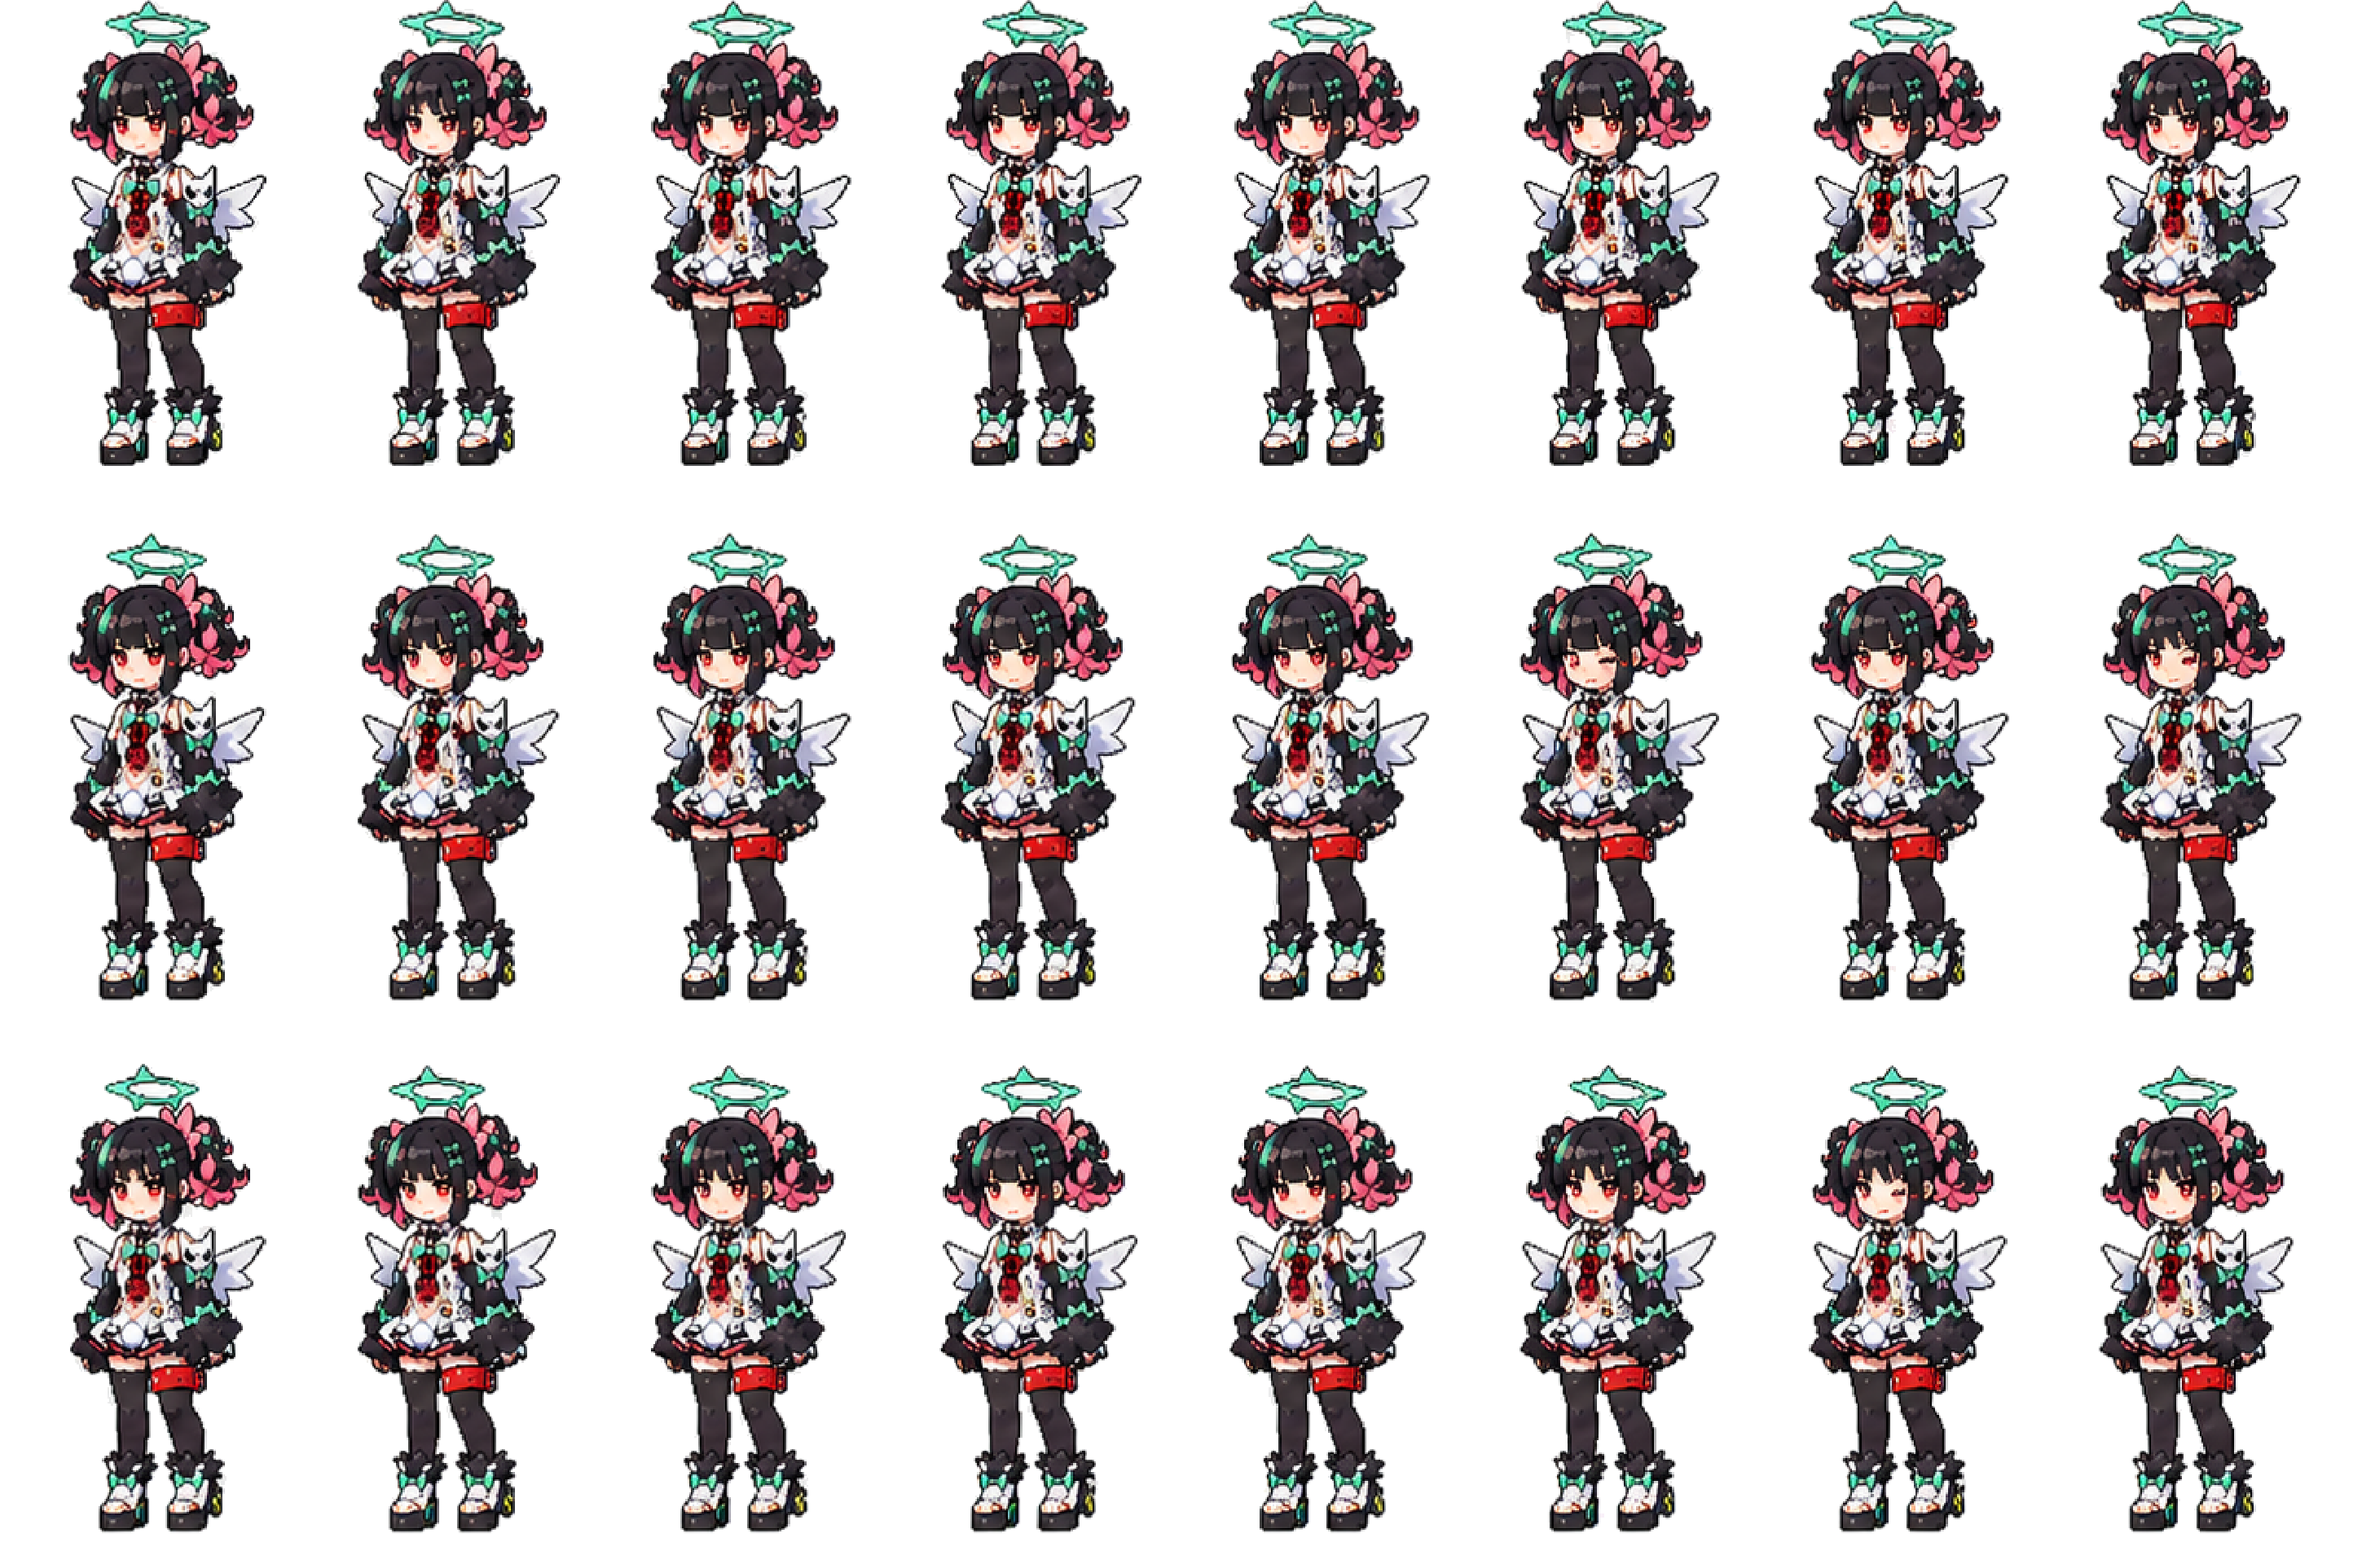
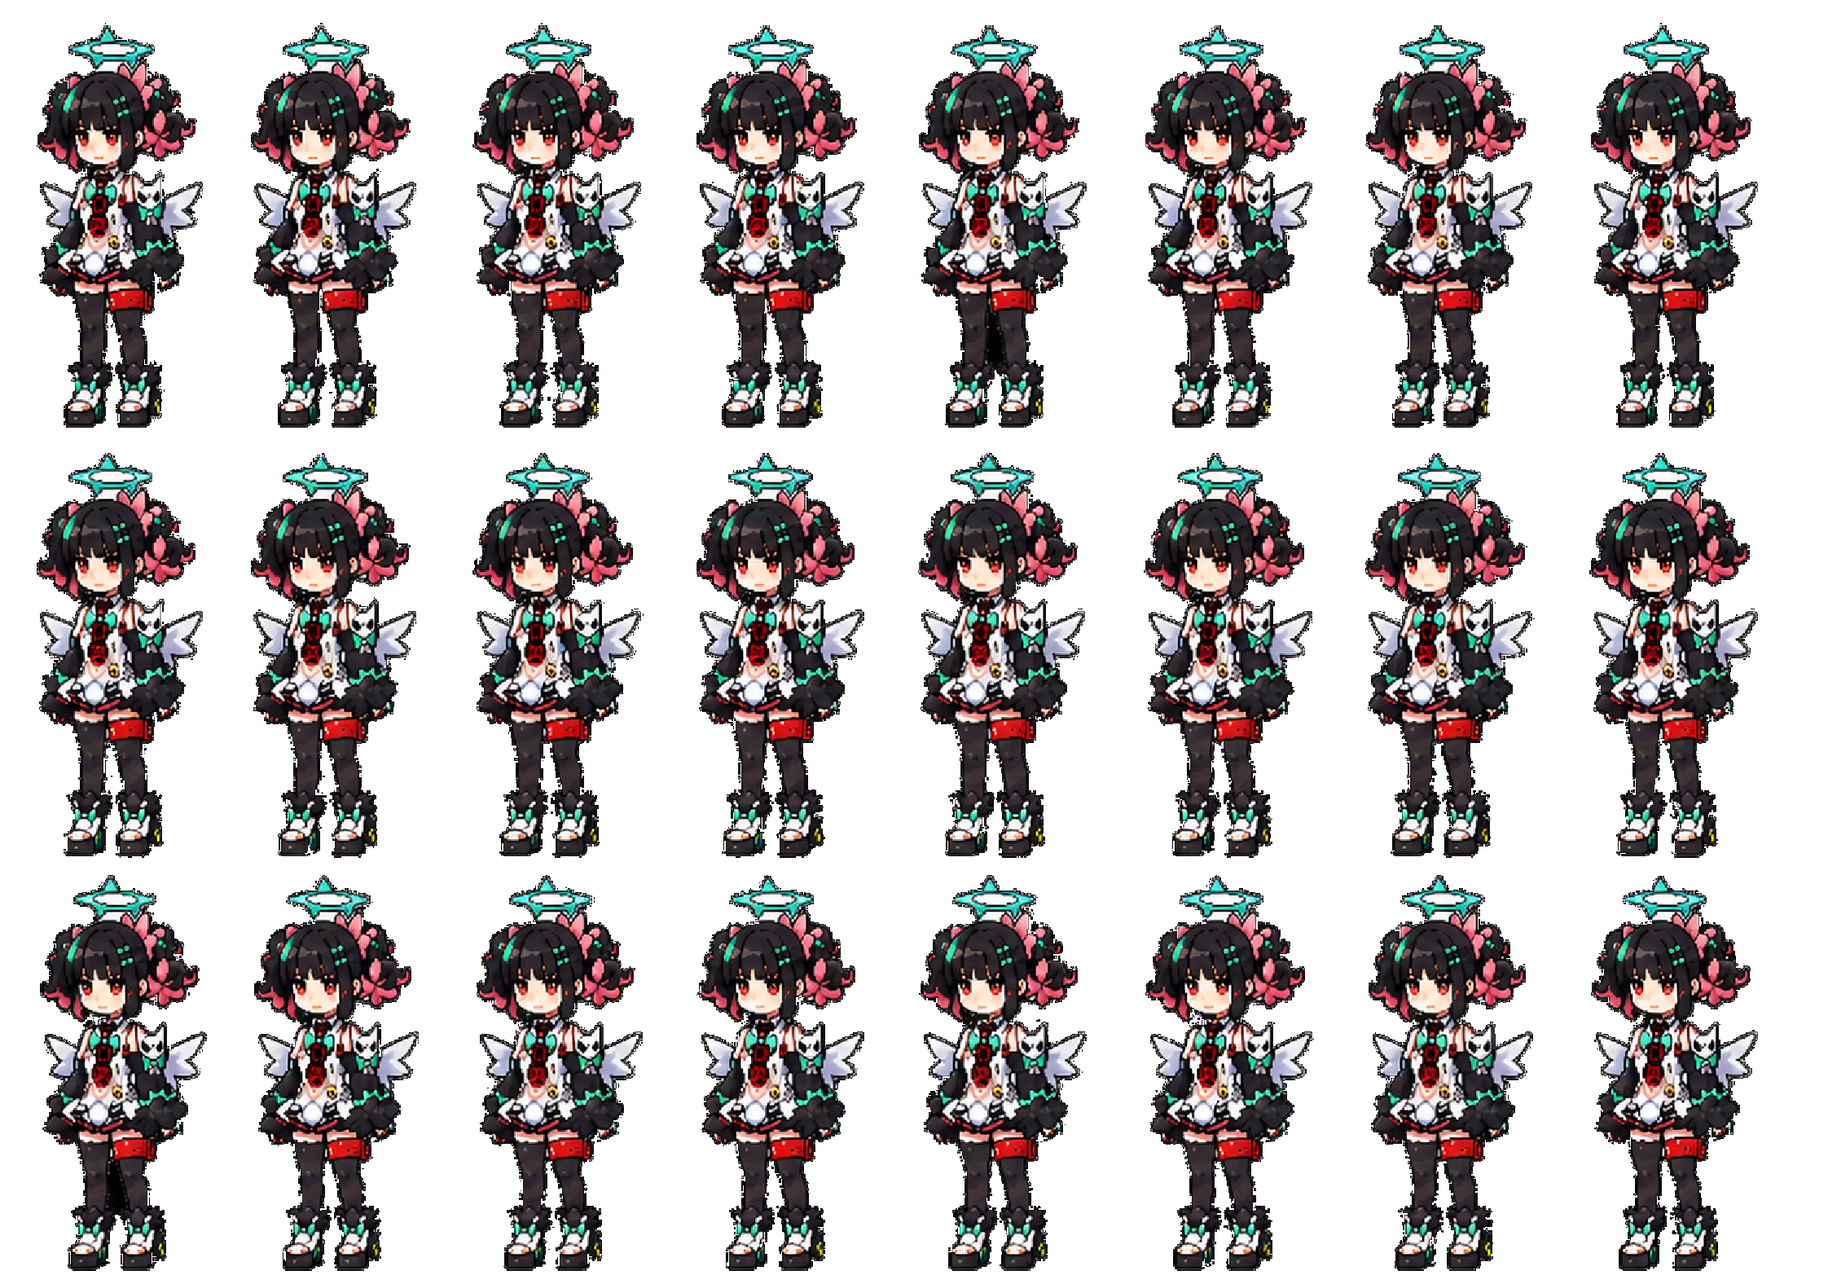
이미지 변경, 초간단 애니메이션 추가

diff --git a/DDANZIT/ResourceFilePath.h b/DDANZIT/ResourceFilePath.h
@@ -5,6 +5,7 @@
 const wchar_t* filePath[] = {
     L"..\\Resource\\img\\Player1.png",
     L"..\\Resource\\img\\Player2.png",
+    L"..\\Resource\\img\\Player3.png",
 };
 
 const wchar_t* Mp3FilePath[] =

diff --git a/DDANZIT/header/Framework/Component/SpriteRenderer.h b/DDANZIT/header/Framework/Component/SpriteRenderer.h
@@ -70,7 +70,7 @@ public:
 
 public:
 	std::unordered_map<std::string, SpriteAtlasRect> atlasRectMap;
-private:
+public:
 	SpriteAtlasRect currentAtlas;
 
 #pragma endregion
